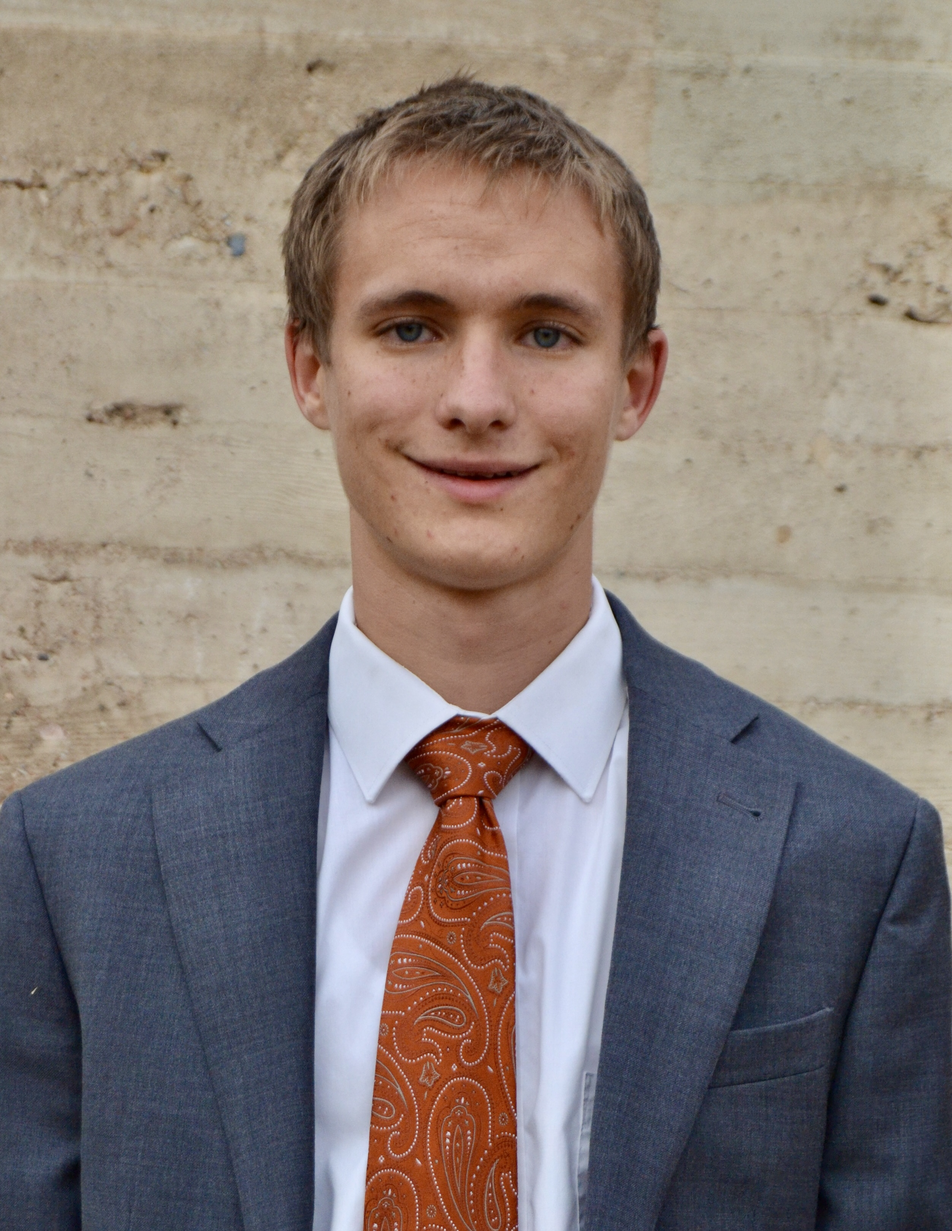
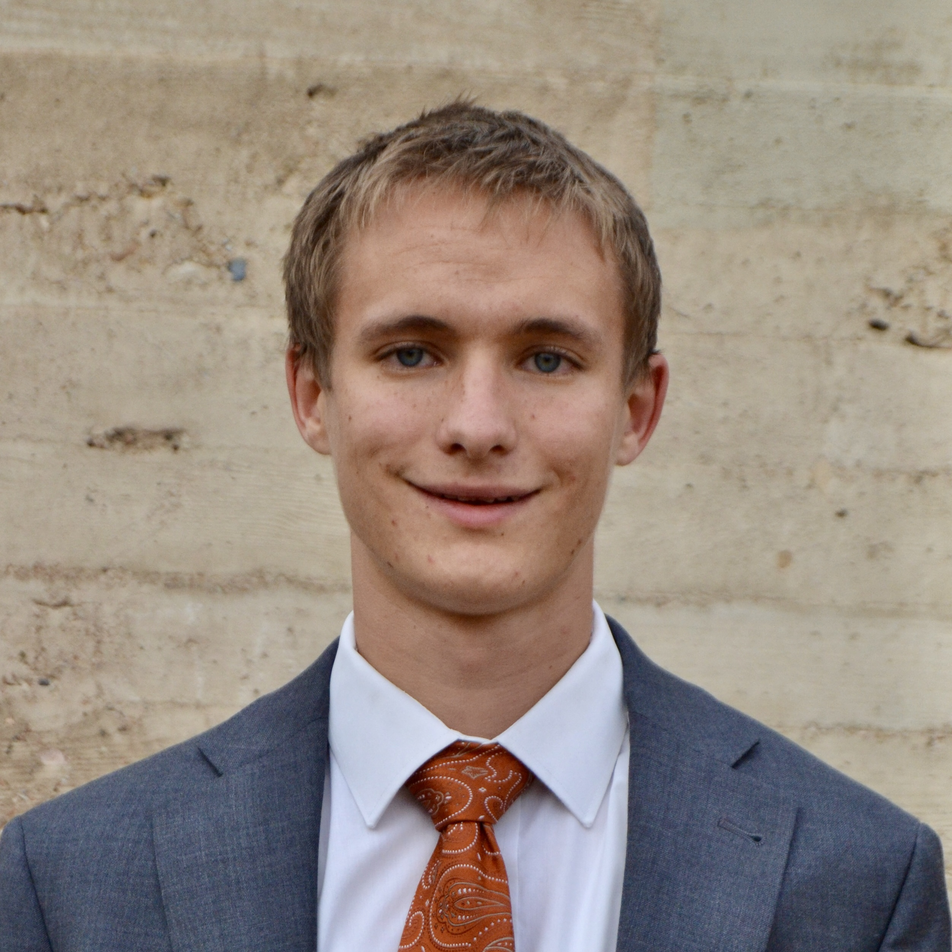
bio/pictures added

diff --git a/src/data/leadership.ts b/src/data/leadership.ts
@@ -105,8 +105,8 @@ export const members: TeamMember[] = [
   {
     name: "Kayla Crapo",
     title: "Administrative Assistant",
-    image: "/images/placeholder.png",
-    bio: "TODO: add bio paragraph(s) for this leadership team member.",
+    image: "/images/kayla_crapo.png",
+    bio: "I began here as a service missionary, painting walls and building shelves, but along the way, I fell in love with the mission of the clinic. I’ve had the opportunity to grow alongside the clinic, learning new skills, taking on new challenges, and seeing firsthand the difference this work makes. Being part of something that continues to grow and provide such meaningful care and support to our community has been incredibly rewarding. I’m grateful to keep learning, growing, and contributing to a mission that truly makes a difference in the lives of others.",
     roleExplanation: "Supports the Executive Director by coordinating administrative operations, communications, scheduling, and organizational priorities to keep the clinic running efficiently.",
     // isAlumni: true,
   },
